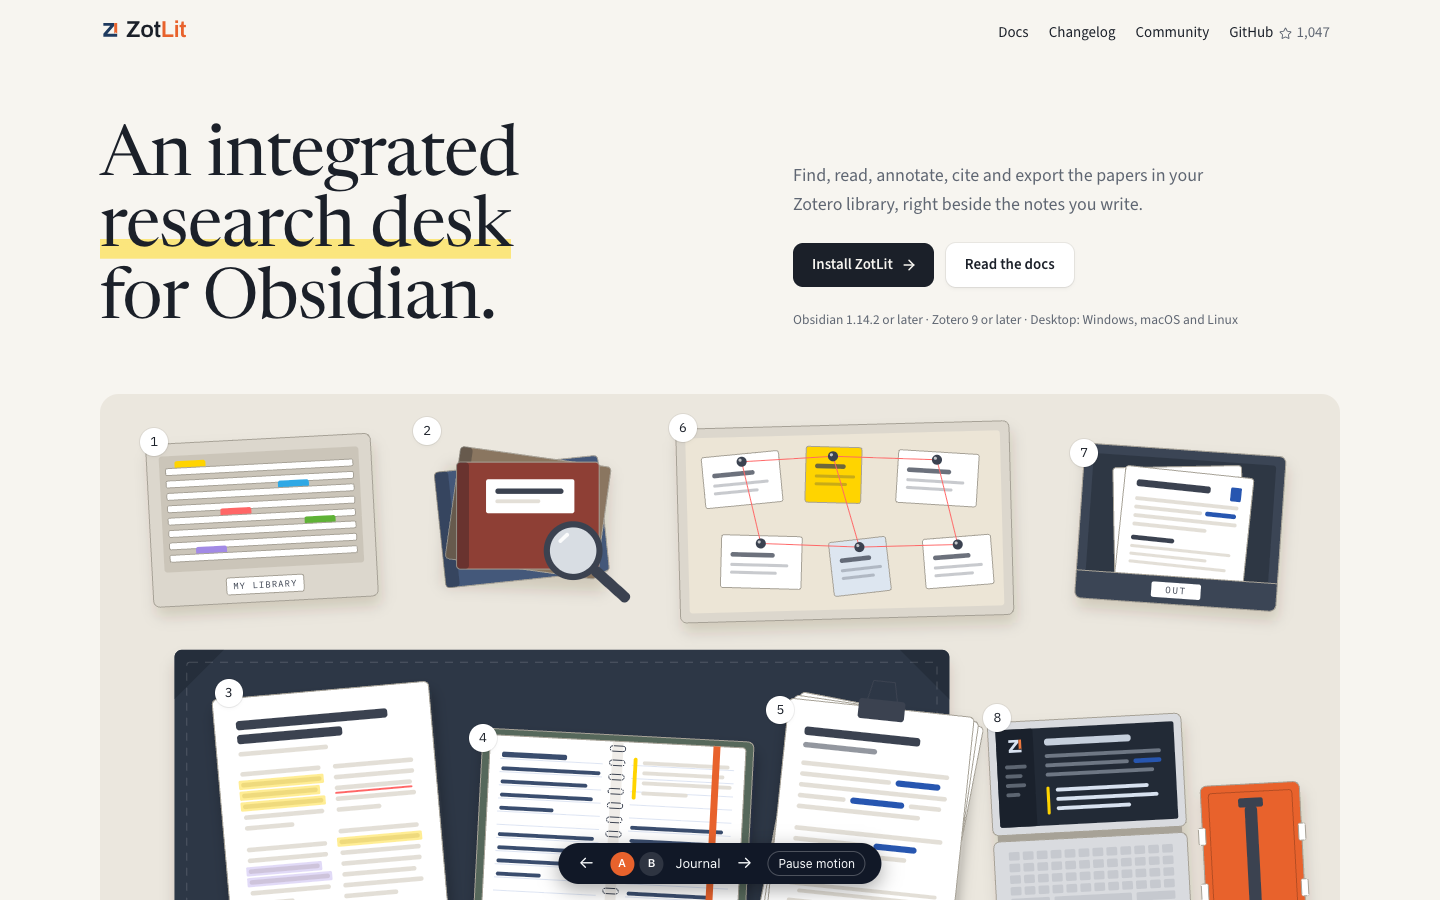
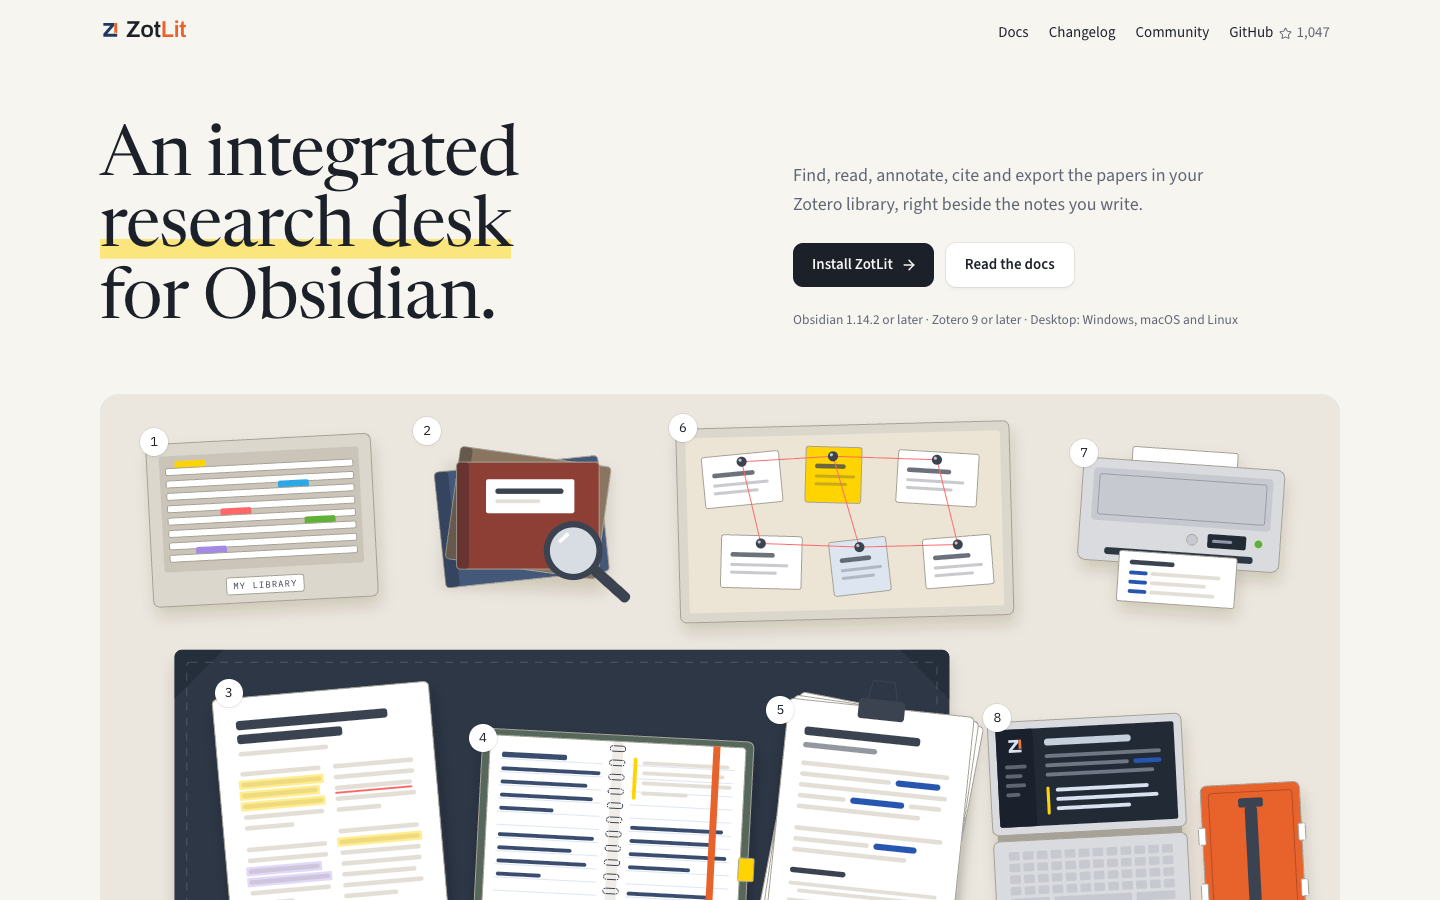
proto(docs): a printer for Export and submit on the desk
The user asked: "Export and submit use a printer". The desk's out tray becomes a
printer seen from above: fresh paper in the back tray, the lid, a small control panel
and a printed page with a reference list coming out of the front, in the same 260x200
footprint, so the desk layout keeps its positions.

DESIGN.md names the printer in the desk table and lists its palette rows. The
screenshots are retaken from the trimmed prototype.

Checked in the browser: no console errors; the printer reads at hero size, as a key
icon and on the docked desk in dark mode; no sideways scroll at 390 px.

Changed region(s): [[0.7188, 0.4978, 0.9062, 0.6844], [0.375, 0.9333, 0.625, 0.9956]]

diff --git a/apps/docs/landing-prototype/landing-prototype.html b/apps/docs/landing-prototype/landing-prototype.html
@@ -7,9 +7,11 @@
     <!--
       VERDICT
         Round 4 winner: A "Journal". The user's words: "good, use A". This file is take A
-        alone, trimmed from prototype-desk-r4.html (commit 20cf496cf); B's tokens and desk
-        palette remain in the stylesheets, unused. The design spec that follows from it is
-        apps/docs/DESIGN.md on this branch (prototype/landing-research-desk).
+        alone, trimmed from the round-4 build; B's tokens and desk palette remain in the
+        stylesheets, unused. The design spec that follows from it is apps/docs/DESIGN.md on
+        this branch (prototype/landing-research-desk).
+        After the verdict: "Export and submit use a printer". The desk's out tray is now a
+        printer (K_ArtPrinter) with a printed reference list coming out of it.
 
       PROTOTYPE (round 4), throwaway. Not production code. Exploration: proto/landing-page.
       Round 3 (commit 6dd4d29c9, prototype-desk-r3/) had four structures. The user picked B
@@ -626,7 +628,7 @@
           name: "Export and submit",
           outcome:
             "Send a chapter to Word with a correct reference list, in the style your journal asks for.",
-          desk: "Out tray",
+          desk: "Printer",
           icon: "FileOutput",
         },
         {
@@ -2937,107 +2939,130 @@
         );
       }
 
-      function K_ArtOutTray() {
+      // A printer seen from above: fresh paper in the tray at the back, the lid, a small control
+      // panel, and a printed page with its reference list coming out of the front.
+      function K_ArtPrinter() {
         return (
           <g>
             <rect
-              width="260"
-              height="200"
-              rx="8"
-              fill="var(--k-tray)"
+              x="68"
+              y="4"
+              width="128"
+              height="30"
+              rx="3"
+              fill="var(--k-paper)"
               stroke="var(--k-edge)"
               strokeWidth={K_SW}
             />
             <rect
-              x="12"
-              y="12"
-              width="236"
-              height="160"
+              x="62"
+              y="0"
+              width="136"
+              height="30"
+              rx="3"
+              fill="var(--k-paper)"
+              stroke="var(--k-edge)"
+              strokeWidth={K_SW}
+            />
+            <rect
+              y="18"
+              width="260"
+              height="132"
+              rx="10"
+              fill="var(--k-laptop)"
+              stroke="var(--k-edge)"
+              strokeWidth={K_SW}
+            />
+            <rect
+              x="14"
+              y="30"
+              width="232"
+              height="68"
+              rx="5"
+              fill="var(--k-key)"
+            />
+            <rect
+              x="22"
+              y="38"
+              width="216"
+              height="52"
+              rx="3"
+              fill="none"
+              stroke="var(--k-tool-seam)"
+              strokeWidth={K_SW}
+            />
+            <circle
+              cx="146"
+              cy="115"
+              r="7"
+              fill="var(--k-key)"
+              stroke="var(--k-edge)"
+              strokeWidth={K_SW}
+            />
+            <rect
+              x="166"
+              y="106"
+              width="50"
+              height="18"
+              rx="3"
+              fill="var(--k-screen)"
+            />
+            <rect
+              x="172"
+              y="113"
+              width="26"
+              height="4"
+              rx="2"
+              fill="#D8E2F0"
+              opacity="0.6"
+            />
+            <circle cx="232" cy="115" r="5" fill="var(--z-green)" />
+            <rect
+              x="34"
+              y="132"
+              width="192"
+              height="9"
               rx="4"
               fill="var(--k-tray-deep)"
             />
             <rect
-              x="44"
-              y="22"
-              width="166"
-              height="150"
-              rx="4"
+              x="54"
+              y="135"
+              width="152"
+              height="65"
+              rx="3"
               fill="var(--k-paper)"
-              stroke="var(--k-edge)"
-              strokeWidth={K_SW}
-              transform="rotate(-5 127 97)"
-            />
-            <g transform="rotate(2 135 100)">
-              <rect
-                x="52"
-                y="28"
-                width="166"
-                height="150"
-                rx="4"
-                fill="var(--k-paper)"
-                stroke="var(--k-edge)"
-                strokeWidth={K_SW}
-              />
-              <rect
-                x="68"
-                y="44"
-                width="96"
-                height="9"
-                rx="3.5"
-                fill="var(--k-head)"
-              />
-              <rect
-                x="190"
-                y="42"
-                width="14"
-                height="18"
-                rx="2"
-                fill="var(--cite)"
-              />
-              <K_Bars x={68} y={66} rows={[134, 88, 134, 96]} step={11} h={5} />
-              <rect
-                x="160"
-                y="76.5"
-                width="40"
-                height="6"
-                rx="3"
-                fill="var(--cite)"
-              />
-              <rect
-                x="68"
-                y="116"
-                width="56"
-                height="6"
-                rx="3"
-                fill="var(--k-head)"
-              />
-              <K_Bars x={68} y={128} rows={[130, 100, 126]} step={10} h={4} />
-            </g>
-            <path
-              d="M0 164 H260 V192 a8 8 0 0 1 -8 8 H8 a8 8 0 0 1 -8 -8 Z"
-              fill="var(--k-tray)"
               stroke="var(--k-edge)"
               strokeWidth={K_SW}
             />
             <rect
-              x="98"
-              y="172"
-              width="64"
-              height="20"
+              x="68"
+              y="146"
+              width="58"
+              height="6"
               rx="3"
-              fill="var(--k-paper)"
-            />
-            <text
-              x="130"
-              y="186"
-              textAnchor="middle"
-              fontSize="12"
-              letterSpacing="2"
               fill="var(--k-head)"
-              style={{ fontFamily: "var(--font-mono)" }}
-            >
-              OUT
-            </text>
+            />
+            {[0, 1, 2].map((i) => (
+              <g key={i}>
+                <rect
+                  x="68"
+                  y={160 + i * 12}
+                  width="24"
+                  height="5"
+                  rx="2.5"
+                  fill="var(--cite)"
+                />
+                <rect
+                  x="96"
+                  y={160 + i * 12}
+                  width={[90, 72, 84][i]}
+                  height="5"
+                  rx="2.5"
+                  fill="var(--k-text)"
+                />
+              </g>
+            ))}
           </g>
         );
       }
@@ -3354,8 +3379,12 @@
         export: {
           w: 260,
           h: 200,
-          Art: K_ArtOutTray,
-          shade: [[0, 0, 260, 200, 8]],
+          Art: K_ArtPrinter,
+          shade: [
+            [62, 0, 136, 30, 3],
+            [0, 18, 260, 132, 10],
+            [54, 135, 152, 65, 3],
+          ],
           vb: [-12, -12, 288, 230],
         },
         customise: {

diff --git a/apps/docs/DESIGN.md b/apps/docs/DESIGN.md
@@ -208,7 +208,7 @@ One flat SVG drawing of an academic's desk seen from above (view box
 | 4 | Take literature notes | Notebook | Literature notes |
 | 5 | Cite while you write | Manuscript on a clipboard | Citations in Live Preview (with Citation Suggester, Any citation style); Citation Popover |
 | 6 | See how your sources connect | Pinboard with string | Citations in the graph view; References Sidebar |
-| 7 | Export and submit | Out tray | Export with citations |
+| 7 | Export and submit | Printer, a page with a reference list coming out | Export with citations |
 | 8 | Make it yours | Laptop and toolbox | Template Workbench |
 
 - **Drawing language.** Flat fills from the desk palette; 1px hairline edges
@@ -225,8 +225,9 @@ One flat SVG drawing of an academic's desk seen from above (view box
   | Paper | `#ffffff` | `#c9c5bd` |
   | Edge | `#a7a297` | `#3a3e46` |
   | Shadow | `rgb(60 45 20 / 0.16)` | `rgb(0 0 0 / 0.40)` |
-  | Steel (box, tray frame) | `#dcd7cd` | `#4a4f58` |
-  | Tray / screen | `#3b4555` / `#222a36` | `#2b3442` / `#10151d` |
+  | Steel (file box) | `#dcd7cd` | `#4a4f58` |
+  | Device (laptop, printer) | `#d9dbdf` | `#5a5e66` |
+  | Screen / printer slot | `#222a36` / `#2e3744` | `#10151d` / `#222935` |
   | Notebook | `#56685b` | `#3d4c42` |
   | Books | `#44587a`, `#8a7660`, `#8e3f35` | `#34445e`, `#6b5c4b`, `#6e342d` |
   | Cork | `#ece5d6` | `#8f887c` |
